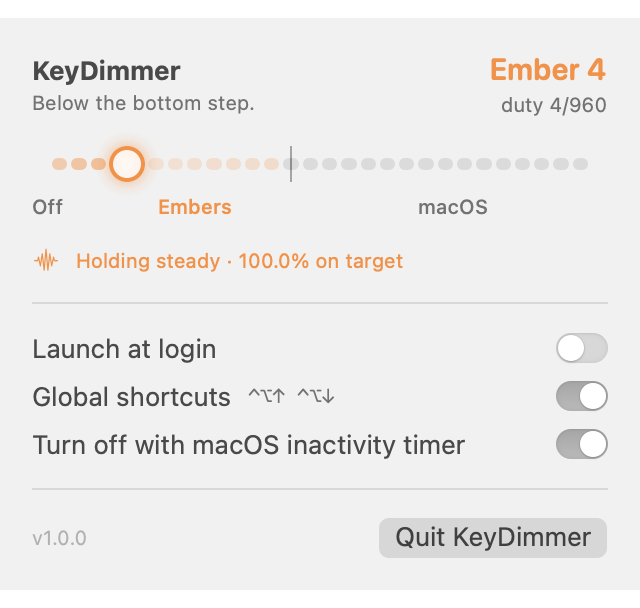
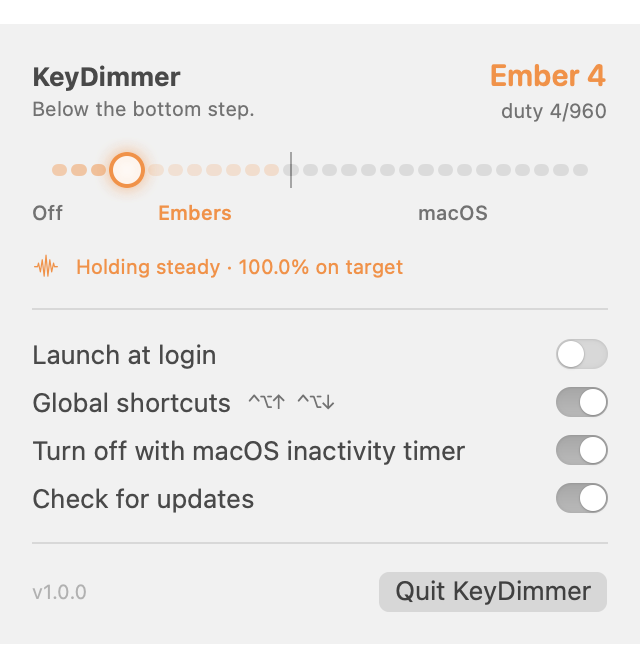
Add release packaging and update check

diff --git a/Sources/KeyDimmer/UpdateChecker.swift b/Sources/KeyDimmer/UpdateChecker.swift
@@ -1,0 +1,89 @@
+import AppKit
+import Observation
+
+/// Asks GitHub once a day whether a newer release exists. The only network access KeyDimmer makes.
+@MainActor
+@Observable
+final class UpdateChecker {
+    struct Release: Equatable {
+        let version: String
+        let page: URL
+    }
+
+    private(set) var available: Release?
+
+    var isEnabled: Bool {
+        didSet {
+            defaults.set(isEnabled, forKey: Keys.enabled)
+            if isEnabled { checkIfDue() } else { available = nil }
+        }
+    }
+
+    private enum Keys {
+        static let enabled = "checksForUpdates"
+        static let lastCheck = "lastUpdateCheck"
+    }
+
+    private static let latestRelease = URL(string: "https://api.github.com/repos/philzx/keydimmer/releases/latest")!
+    private static let interval: TimeInterval = 24 * 60 * 60
+
+    private let defaults = UserDefaults.standard
+    private let current = Bundle.main.object(forInfoDictionaryKey: "CFBundleShortVersionString") as? String
+    private var timer: Timer?
+
+    init() {
+        isEnabled = UserDefaults.standard.object(forKey: Keys.enabled) as? Bool ?? true
+    }
+
+    func start() {
+        // Unbundled builds (`swift run`) have no version to compare.
+        guard current != nil else { return }
+        checkIfDue(force: true)
+        timer = Timer.scheduledTimer(withTimeInterval: 60 * 60, repeats: true) { _ in
+            MainActor.assumeIsolated { [weak self] in self?.checkIfDue() }
+        }
+    }
+
+    func openReleasePage() {
+        if let available { NSWorkspace.shared.open(available.page) }
+    }
+
+    private func checkIfDue(force: Bool = false) {
+        guard isEnabled, let current else { return }
+        let last = defaults.object(forKey: Keys.lastCheck) as? Date ?? .distantPast
+        guard force || Date().timeIntervalSince(last) >= Self.interval else { return }
+        defaults.set(Date(), forKey: Keys.lastCheck)
+
+        Task {
+            guard let release = await Self.fetchLatest(), Self.isNewer(release.version, than: current) else { return }
+            if isEnabled { available = release }
+        }
+    }
+
+    private static func fetchLatest() async -> Release? {
+        struct Payload: Decodable {
+            let tag_name: String
+            let html_url: URL
+        }
+        var request = URLRequest(url: latestRelease)
+        request.setValue("application/vnd.github+json", forHTTPHeaderField: "Accept")
+        guard let (data, response) = try? await URLSession.shared.data(for: request),
+              (response as? HTTPURLResponse)?.statusCode == 200,
+              let payload = try? JSONDecoder().decode(Payload.self, from: data)
+        else { return nil }
+        let version = payload.tag_name.hasPrefix("v") ? String(payload.tag_name.dropFirst()) : payload.tag_name
+        return Release(version: version, page: payload.html_url)
+    }
+
+    /// Numeric comparison of dotted versions ("1.10.0" > "1.9.2"); missing parts count as 0.
+    static func isNewer(_ candidate: String, than current: String) -> Bool {
+        let a = candidate.split(separator: ".").map { Int($0) ?? 0 }
+        let b = current.split(separator: ".").map { Int($0) ?? 0 }
+        for i in 0..<max(a.count, b.count) {
+            let x = i < a.count ? a[i] : 0
+            let y = i < b.count ? b[i] : 0
+            if x != y { return x > y }
+        }
+        return false
+    }
+}

diff --git a/Sources/KeyDimmer/MenuContent.swift b/Sources/KeyDimmer/MenuContent.swift
@@ -82,6 +82,10 @@ struct MenuContent: View {
             ))
             settingRow("Global shortcuts", detail: "⌃⌥↑ ⌃⌥↓", isOn: $model.hotkeysEnabled)
             settingRow("Turn off with macOS inactivity timer", isOn: $model.followsInactivity)
+            settingRow("Check for updates", isOn: Binding(
+                get: { model.updates.isEnabled },
+                set: { model.updates.isEnabled = $0 }
+            ))
         }
     }
 
@@ -101,9 +105,17 @@ struct MenuContent: View {
 
     private var footer: some View {
         HStack {
-            Text("v\(Bundle.main.object(forInfoDictionaryKey: "CFBundleShortVersionString") as? String ?? "dev")")
-                .font(.caption)
-                .foregroundStyle(.tertiary)
+            if let release = model.updates.available {
+                Button { model.updates.openReleasePage() } label: {
+                    Label("Update to v\(release.version)", systemImage: "arrow.down.circle.fill")
+                        .font(.caption)
+                }
+                .buttonStyle(.link)
+            } else {
+                Text("v\(Bundle.main.object(forInfoDictionaryKey: "CFBundleShortVersionString") as? String ?? "dev")")
+                    .font(.caption)
+                    .foregroundStyle(.tertiary)
+            }
             Spacer()
             Button("Quit KeyDimmer") { NSApp.terminate(nil) }
                 .keyboardShortcut("q")

diff --git a/Sources/KeyDimmer/AppModel.swift b/Sources/KeyDimmer/AppModel.swift
@@ -20,6 +20,7 @@ final class AppModel {
     private(set) var unsupportedReason: String?
     private(set) var stats = HoldEngine.Stats()
     private(set) var isCalibrating = false
+    let updates = UpdateChecker()
 
     var hotkeysEnabled: Bool {
         didSet {
@@ -102,6 +103,7 @@ final class AppModel {
     // MARK: - Lifecycle
 
     func start() {
+        updates.start()
         guard let hardware, isSupported else { return }
         restoreAutoBrightnessAfterCrash()
 

diff --git a/README.md b/README.md
@@ -22,9 +22,19 @@
   and hands automatic brightness back exactly as it found it.
 - **Leaves things tidy.** Quitting while on an ember leaves the keyboard at the dimmest level macOS
   can keep on its own.
-- No accounts, analytics or network access. ~0% CPU while holding.
+- No accounts or analytics. The only network access is a daily check for new releases on GitHub,
+  which you can turn off in the menu. ~0% CPU while holding.
 
 Requires an Apple Silicon MacBook with a backlit keyboard and macOS 14 or later.
+
+## Install
+
+Download the latest `.dmg` from [Releases](https://github.com/philzx/keydimmer/releases/latest), open
+it and drag KeyDimmer to Applications.
+
+KeyDimmer isn't notarised by Apple, so macOS blocks it the first time you open it. Go to
+**System Settings → Privacy & Security** and click **Open Anyway** — only needed once. Or, in
+Terminal: `xattr -dr com.apple.quarantine /Applications/KeyDimmer.app`.
 
 ## How it works
 
@@ -47,6 +57,9 @@ distance. The [hold engine](Sources/KeyDimmerCore/HoldEngine.swift):
 ./scripts/build-app.sh          # → build/KeyDimmer.app (ad-hoc signed)
 open build/KeyDimmer.app
 ```
+
+`VERSION=1.2.0 ./scripts/package.sh` also builds `dist/KeyDimmer-1.2.0.dmg` and `.zip`. Pushing a
+`v*` tag does the same on GitHub Actions and publishes a release.
 
 Set `SIGN_IDENTITY="Developer ID Application: …"` to sign for distribution (notarise afterwards).
 

diff --git a/.github/release-notes.md b/.github/release-notes.md
@@ -1,0 +1,4 @@
+Download **KeyDimmer-*.dmg**, open it and drag KeyDimmer to Applications.
+
+KeyDimmer isn't notarised by Apple, so macOS blocks it the first time: try to open it, then go to
+**System Settings → Privacy & Security** and click **Open Anyway**. Only needed once.
